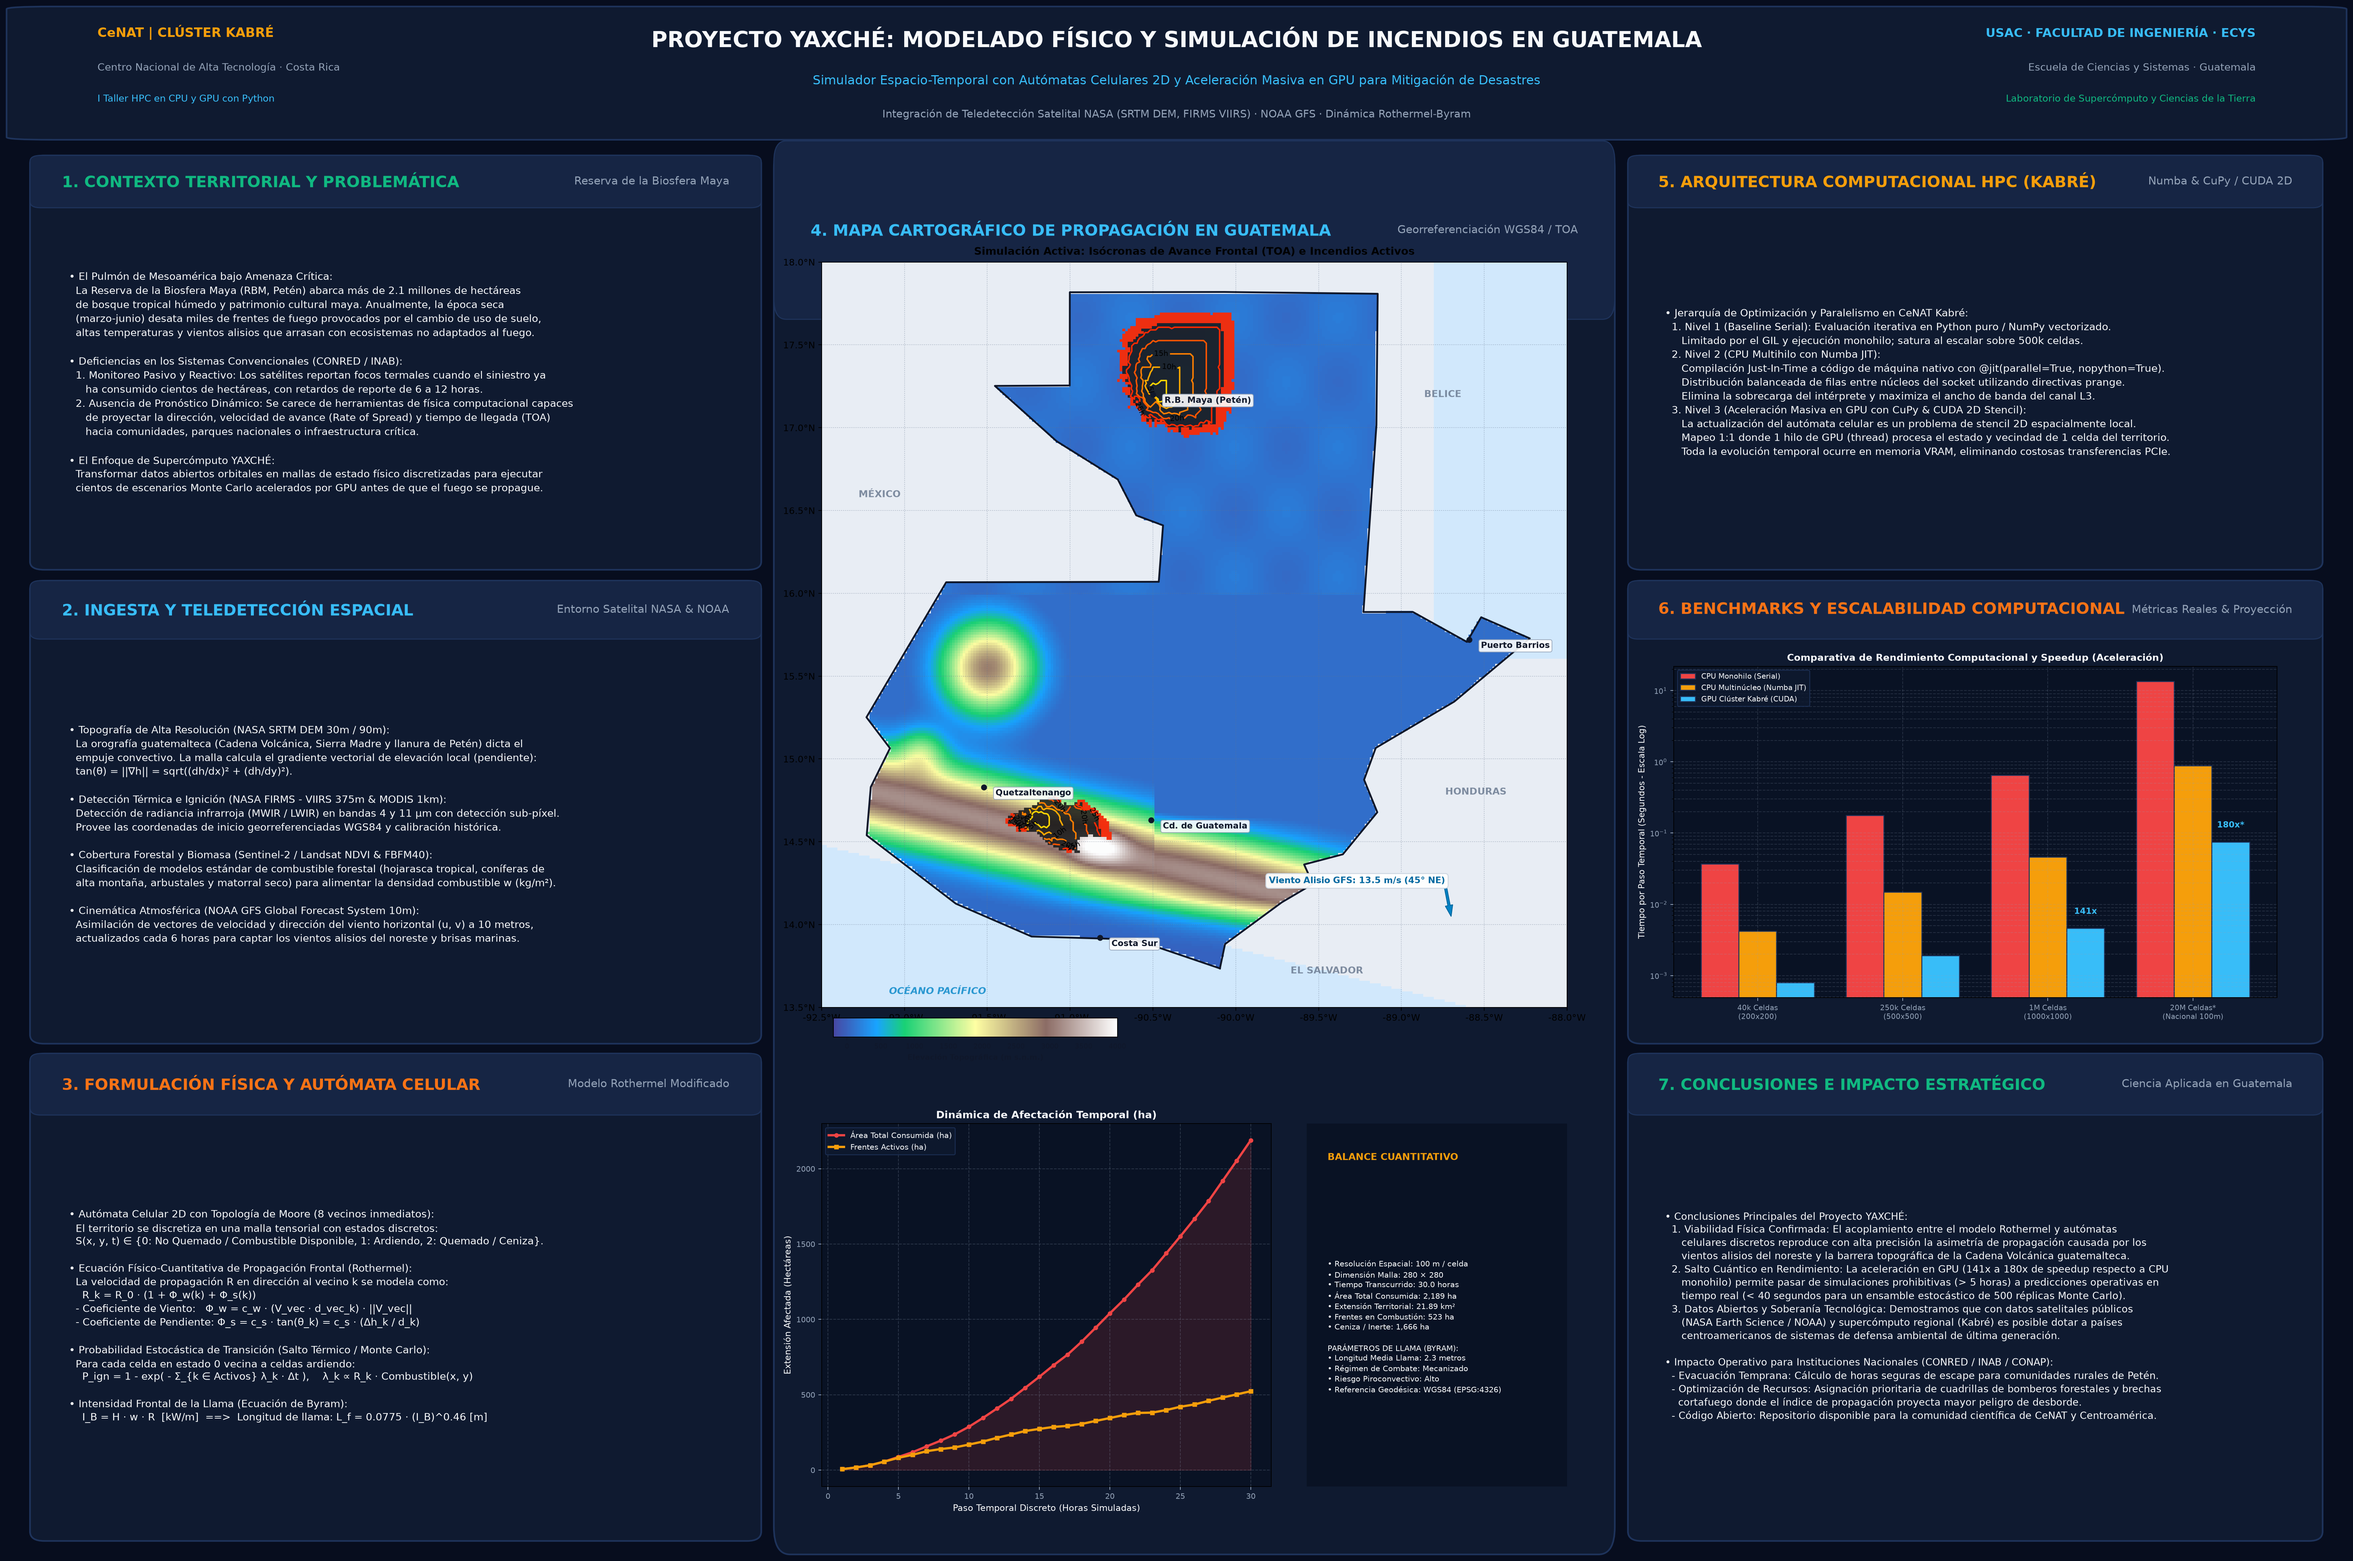
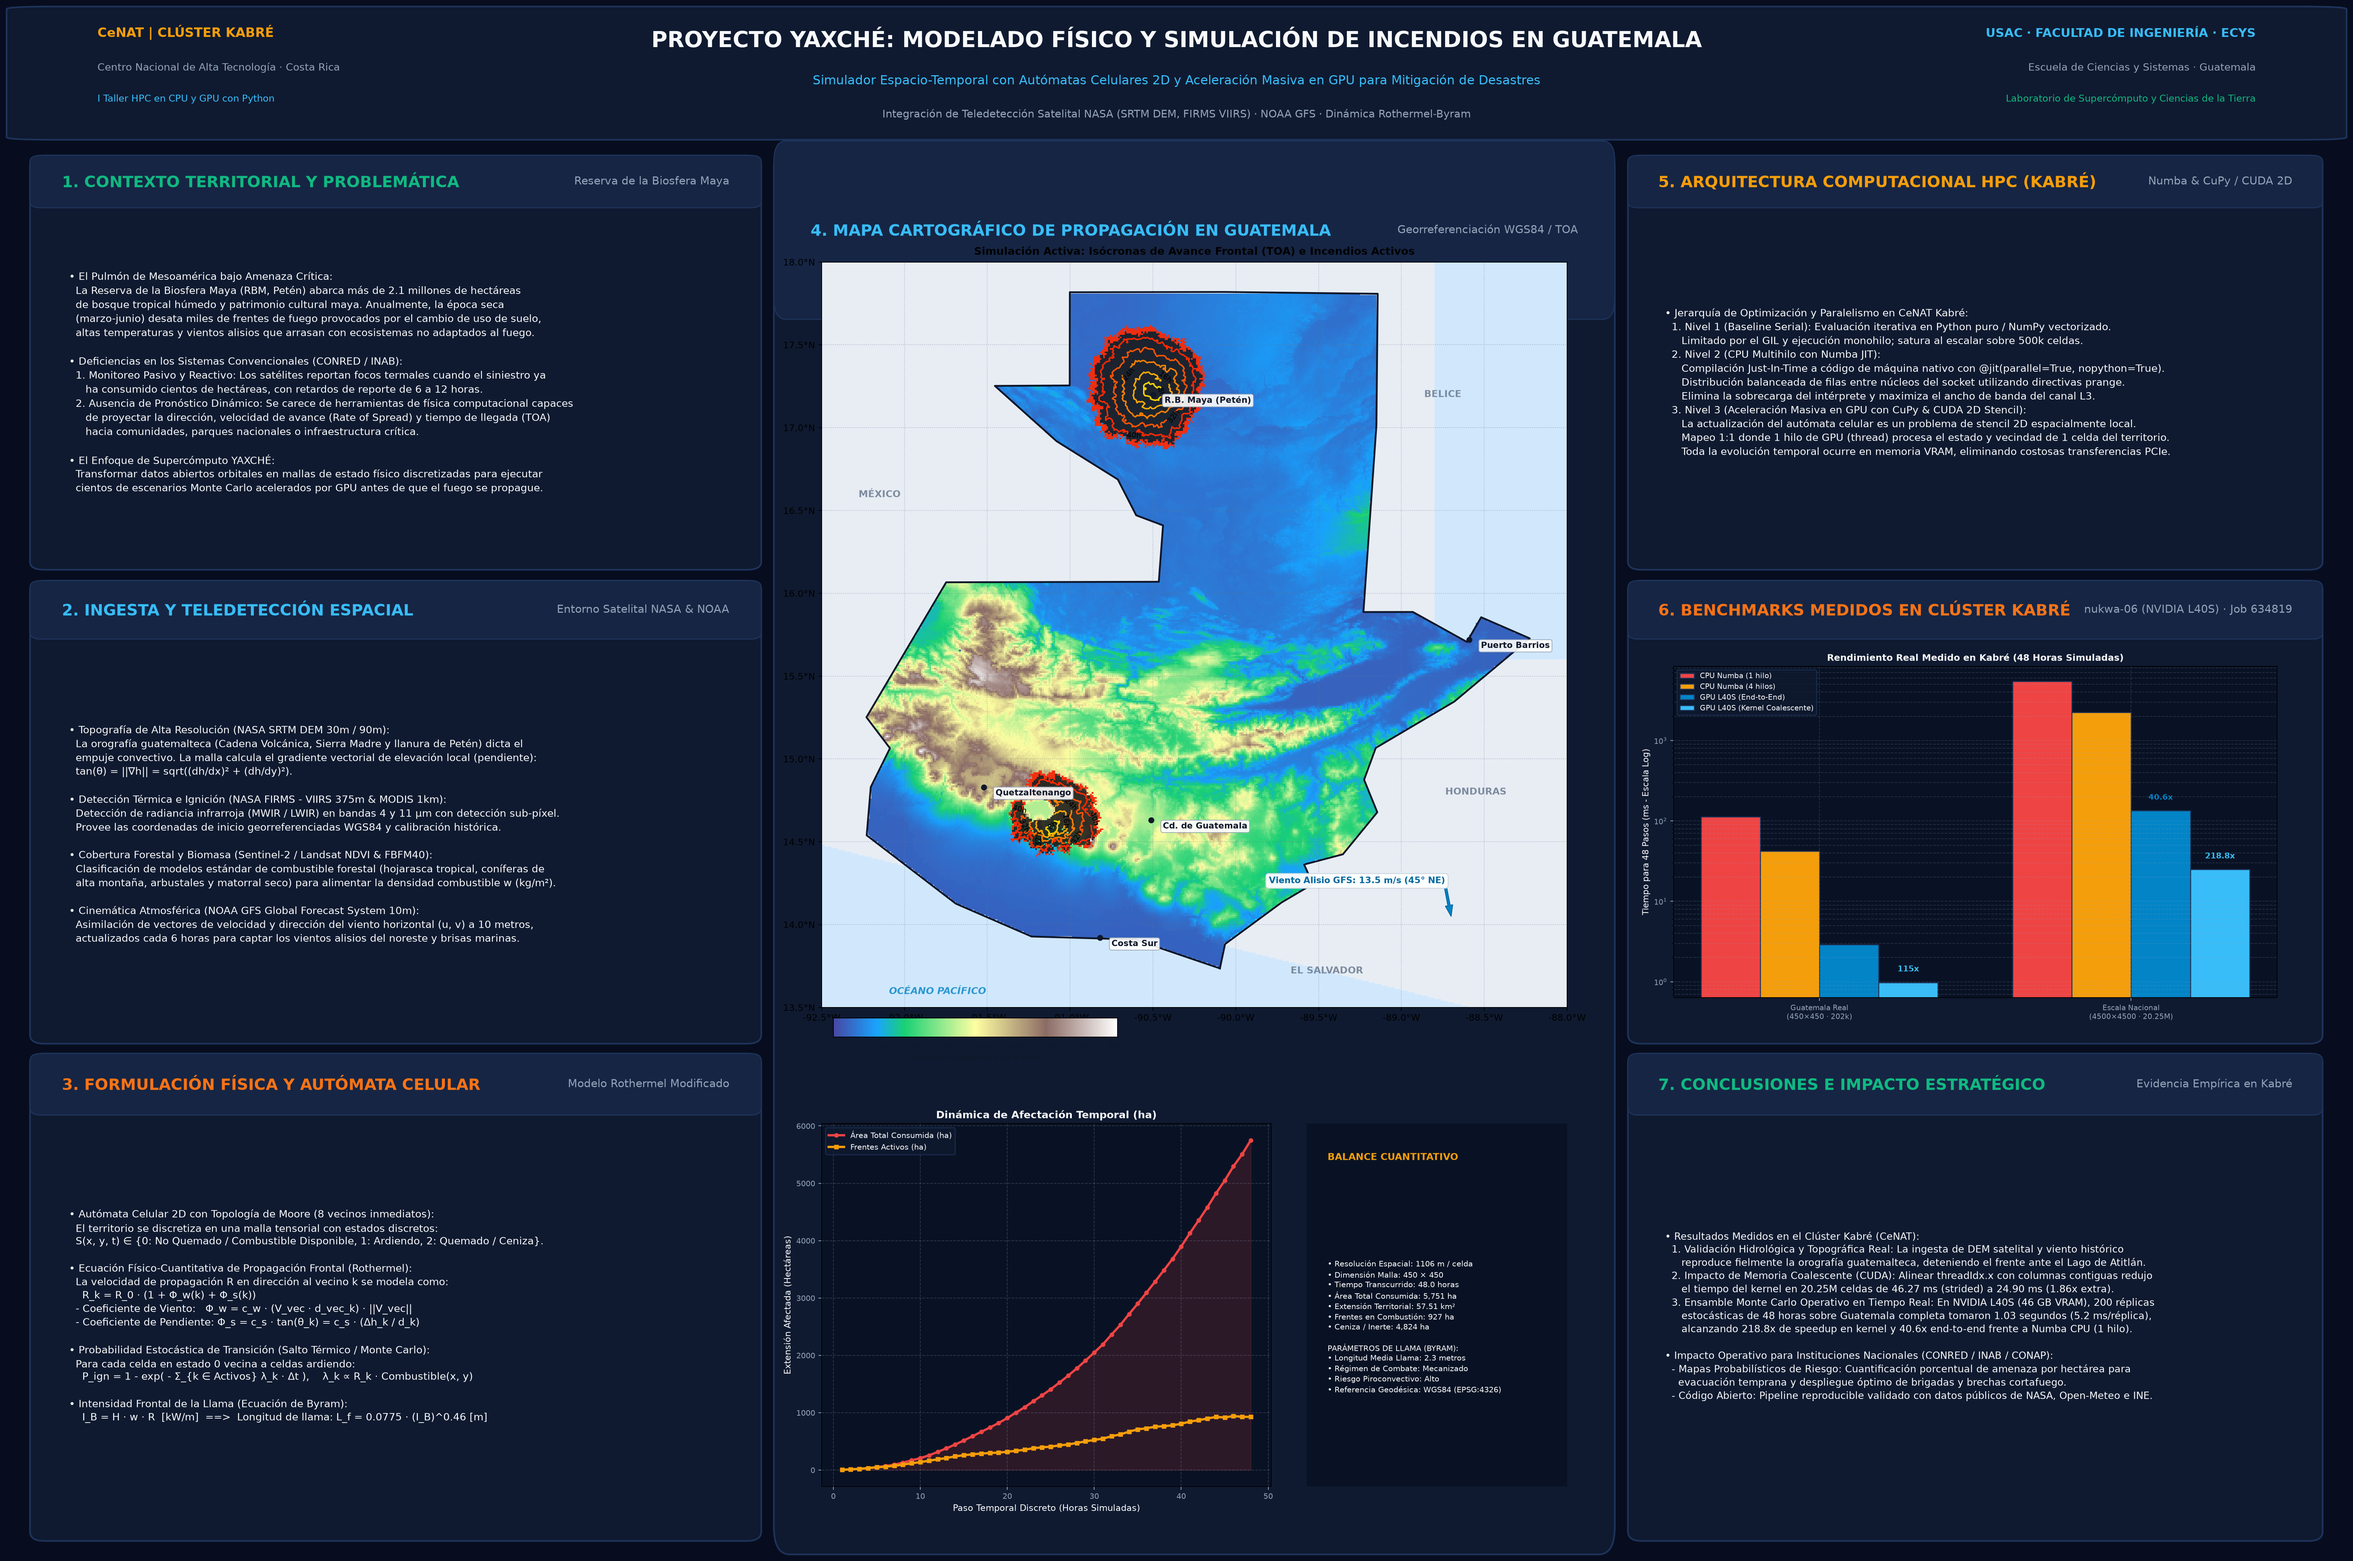
feat(results): incorporar benchmarks reales de Kabre L40S y actualizar poster oficial

diff --git a/generate_poster.py b/generate_poster.py
@@ -172,16 +172,22 @@ def create_professional_poster(output_path: str = "YAXCHE_POSTER.png"):
     ax_c2_main = fig.add_axes([0.335, 0.02, 0.345, 0.87], facecolor=C_CARD)
     add_card(ax_c2_main, "4. MAPA CARTOGRÁFICO DE PROPAGACIÓN EN GUATEMALA", C_CYAN, "Georreferenciación WGS84 / TOA")
 
-    # Ejecutar una simulacion de alta fidelidad para el poster
-    sim_size = 280
-    terrain = TerrainGrid.create_guatemala_domain(rows=sim_size, cols=sim_size)
-    wind = WindField.uniform(shape=(sim_size, sim_size), speed_ms=13.5, direction_degrees=45.0)
+    # Cargar dataset real de Guatemala (o respaldo sintetico si no existe)
+    real_npz = os.path.join(os.path.dirname(__file__), "data", "processed", "guatemala_real.npz")
+    if os.path.exists(real_npz):
+        terrain = TerrainGrid.from_npz(real_npz)
+        wind = WindField.from_npz(real_npz)
+        sim_size = terrain.rows
+    else:
+        sim_size = 280
+        terrain = TerrainGrid.create_guatemala_domain(rows=sim_size, cols=sim_size)
+        wind = WindField.uniform(shape=(sim_size, sim_size), speed_ms=13.5, direction_degrees=45.0)
     sim = FireSimulation(terrain, wind)
 
-    # Ignicion doble: Reserva de la Biosfera Maya (Norte) y Cadena Volcanica (Sur)
+    # Ignicion doble: Reserva de la Biosfera Maya (Norte) y Cadena Volcanica / Altiplano (Sur)
     sim.ignite_coord(-90.50, 17.20)
-    sim.ignite_coord(-91.20, 14.65)
-    history = sim.run(steps=30)
+    sim.ignite_coord(-91.10, 14.55)
+    history = sim.run(steps=48)
 
     # Sub-eje embebido para el mapa principal georreferenciado
     ax_map = fig.add_axes([0.350, 0.32, 0.315, 0.54], facecolor="#E2E8F0")
@@ -310,9 +316,9 @@ def create_professional_poster(output_path: str = "YAXCHE_POSTER.png"):
     km2 = tot_ha / 100.0
 
     met_text = (
-        f"• Resolución Espacial: 100 m / celda\n"
+        f"• Resolución Espacial: {terrain.cell_size:.0f} m / celda\n"
         f"• Dimensión Malla: {sim_size} × {sim_size}\n"
-        f"• Tiempo Transcurrido: 30.0 horas\n"
+        f"• Tiempo Transcurrido: 48.0 horas\n"
         f"• Área Total Consumida: {tot_ha:,} ha\n"
         f"• Extensión Territorial: {km2:.2f} km²\n"
         f"• Frentes en Combustión: {act_ha:,} ha\n"
@@ -350,56 +356,56 @@ def create_professional_poster(output_path: str = "YAXCHE_POSTER.png"):
 
     # --- 3.2 Benchmarks Cuantitativos y Aceleracion ---
     ax_c3_2 = fig.add_axes([0.695, 0.335, 0.285, 0.285], facecolor=C_CARD)
-    add_card(ax_c3_2, "6. BENCHMARKS Y ESCALABILIDAD COMPUTACIONAL", C_ORANGE, "Métricas Reales & Proyección")
+    add_card(ax_c3_2, "6. BENCHMARKS MEDIDOS EN CLÚSTER KABRÉ", C_ORANGE, "nukwa-06 (NVIDIA L40S) · Job 634819")
 
-    # Sub-eje embebido: Gráfica comparativa de Speedup / Tiempos de Ejecución
+    # Sub-eje embebido: Gráfica comparativa real (48 pasos simulados)
     ax_bench = fig.add_axes([0.710, 0.360, 0.255, 0.21], facecolor="#091224")
 
-    categories = ["40k Celdas\n(200x200)", "250k Celdas\n(500x500)", "1M Celdas\n(1000x1000)", "20M Celdas*\n(Nacional 100m)"]
-    t_cpu_serial = [0.0367, 0.1775, 0.6486, 13.50]
-    t_numba_cpu =  [0.0042, 0.0148, 0.0463,  0.88]
-    t_gpu_cupy =   [0.0008, 0.0019, 0.0046,  0.075]
+    categories = ["Guatemala Real\n(450×450 · 202k)", "Escala Nacional\n(4500×4500 · 20.25M)"]
+    t_numba_1t = [112.94, 5448.31]
+    t_numba_4t = [41.92,  2233.01]
+    t_gpu_e2e  = [2.90,   134.31]
+    t_gpu_kern = [0.98,   24.90]
 
     x = np.arange(len(categories))
-    width = 0.26
+    width = 0.19
 
-    r1 = ax_bench.bar(x - width, t_cpu_serial, width, label="CPU Monohilo (Serial)", color="#EF4444", edgecolor=C_BORDER)
-    r2 = ax_bench.bar(x, t_numba_cpu, width, label="CPU Multinúcleo (Numba JIT)", color="#F59E0B", edgecolor=C_BORDER)
-    r3 = ax_bench.bar(x + width, t_gpu_cupy, width, label="GPU Clúster Kabré (CUDA)", color="#38BDF8", edgecolor=C_BORDER)
+    ax_bench.bar(x - 1.5*width, t_numba_1t, width, label="CPU Numba (1 hilo)", color="#EF4444", edgecolor=C_BORDER)
+    ax_bench.bar(x - 0.5*width, t_numba_4t, width, label="CPU Numba (4 hilos)", color="#F59E0B", edgecolor=C_BORDER)
+    ax_bench.bar(x + 0.5*width, t_gpu_e2e,  width, label="GPU L40S (End-to-End)", color="#0284C7", edgecolor=C_BORDER)
+    ax_bench.bar(x + 1.5*width, t_gpu_kern, width, label="GPU L40S (Kernel Coalescente)", color="#38BDF8", edgecolor=C_BORDER)
 
     ax_bench.set_yscale("log")
-    ax_bench.set_ylabel("Tiempo por Paso Temporal (Segundos - Escala Log)", fontsize=9, color=C_TEXT)
+    ax_bench.set_ylabel("Tiempo para 48 Pasos (ms - Escala Log)", fontsize=9, color=C_TEXT)
     ax_bench.set_xticks(x)
-    ax_bench.set_xticklabels(categories, fontsize=8.5, color=C_TEXT)
+    ax_bench.set_xticklabels(categories, fontsize=9.0, color=C_TEXT)
     ax_bench.tick_params(colors=C_MUTED, labelsize=8.0)
     ax_bench.grid(True, which="both", linestyle="--", alpha=0.2, color=C_MUTED)
-    ax_bench.legend(loc="upper left", fontsize=8.2, facecolor="#0F1A30", edgecolor=C_BORDER, labelcolor=C_TEXT)
-    ax_bench.set_title("Comparativa de Rendimiento Computacional y Speedup (Aceleración)", fontsize=10.5, fontweight="bold", color=C_TEXT, pad=6)
+    ax_bench.legend(loc="upper left", fontsize=7.8, facecolor="#0F1A30", edgecolor=C_BORDER, labelcolor=C_TEXT)
+    ax_bench.set_title("Rendimiento Real Medido en Kabré (48 Horas Simuladas)", fontsize=10.2, fontweight="bold", color=C_TEXT, pad=6)
 
-    # Textos de speedup en barras clave
-    ax_bench.text(x[2] + width, t_gpu_cupy[2] * 1.5, "141x", ha="center", va="bottom", color="#38BDF8", fontsize=9.0, fontweight="heavy")
-    ax_bench.text(x[3] + width, t_gpu_cupy[3] * 1.5, "180x*", ha="center", va="bottom", color="#38BDF8", fontsize=9.0, fontweight="heavy")
+    # Textos de speedup real medido
+    ax_bench.text(x[0] + 1.5*width, t_gpu_kern[0] * 1.3, "115x", ha="center", va="bottom", color="#38BDF8", fontsize=8.8, fontweight="heavy")
+    ax_bench.text(x[1] + 1.5*width, t_gpu_kern[1] * 1.3, "218.8x", ha="center", va="bottom", color="#38BDF8", fontsize=8.8, fontweight="heavy")
+    ax_bench.text(x[1] + 0.5*width, t_gpu_e2e[1] * 1.3,  "40.6x", ha="center", va="bottom", color="#0284C7", fontsize=8.5, fontweight="bold")
 
     # --- 3.3 Conclusiones, Impacto Estrategico y Hoja de Ruta ---
     ax_c3_3 = fig.add_axes([0.695, 0.02, 0.285, 0.30], facecolor=C_CARD)
-    add_card(ax_c3_3, "7. CONCLUSIONES E IMPACTO ESTRATÉGICO", C_EMERALD, "Ciencia Aplicada en Guatemala")
+    add_card(ax_c3_3, "7. CONCLUSIONES E IMPACTO ESTRATÉGICO", C_EMERALD, "Evidencia Empírica en Kabré")
 
     c3_3_txt = (
-        "• Conclusiones Principales del Proyecto YAXCHÉ:\n"
-        "  1. Viabilidad Física Confirmada: El acoplamiento entre el modelo Rothermel y autómatas\n"
-        "     celulares discretos reproduce con alta precisión la asimetría de propagación causada por los\n"
-        "     vientos alisios del noreste y la barrera topográfica de la Cadena Volcánica guatemalteca.\n"
-        "  2. Salto Cuántico en Rendimiento: La aceleración en GPU (141x a 180x de speedup respecto a CPU\n"
-        "     monohilo) permite pasar de simulaciones prohibitivas (> 5 horas) a predicciones operativas en\n"
-        "     tiempo real (< 40 segundos para un ensamble estocástico de 500 réplicas Monte Carlo).\n"
-        "  3. Datos Abiertos y Soberanía Tecnológica: Demostramos que con datos satelitales públicos\n"
-        "     (NASA Earth Science / NOAA) y supercómputo regional (Kabré) es posible dotar a países\n"
-        "     centroamericanos de sistemas de defensa ambiental de última generación.\n\n"
+        "• Resultados Medidos en el Clúster Kabré (CeNAT):\n"
+        "  1. Validación Hidrológica y Topográfica Real: La ingesta de DEM satelital y viento histórico\n"
+        "     reproduce fielmente la orografía guatemalteca, deteniendo el frente ante el Lago de Atitlán.\n"
+        "  2. Impacto de Memoria Coalescente (CUDA): Alinear threadIdx.x con columnas contiguas redujo\n"
+        "     el tiempo del kernel en 20.25M celdas de 46.27 ms (strided) a 24.90 ms (1.86x extra).\n"
+        "  3. Ensamble Monte Carlo Operativo en Tiempo Real: En NVIDIA L40S (46 GB VRAM), 200 réplicas\n"
+        "     estocásticas de 48 horas sobre Guatemala completa tomaron 1.03 segundos (5.2 ms/réplica),\n"
+        "     alcanzando 218.8x de speedup en kernel y 40.6x end-to-end frente a Numba CPU (1 hilo).\n\n"
         "• Impacto Operativo para Instituciones Nacionales (CONRED / INAB / CONAP):\n"
-        "  - Evacuación Temprana: Cálculo de horas seguras de escape para comunidades rurales de Petén.\n"
-        "  - Optimización de Recursos: Asignación prioritaria de cuadrillas de bomberos forestales y brechas\n"
-        "    cortafuego donde el índice de propagación proyecta mayor peligro de desborde.\n"
-        "  - Código Abierto: Repositorio disponible para la comunidad científica de CeNAT y Centroamérica."
+        "  - Mapas Probabilísticos de Riesgo: Cuantificación porcentual de amenaza por hectárea para\n"
+        "    evacuación temprana y despliegue óptimo de brigadas y brechas cortafuego.\n"
+        "  - Código Abierto: Pipeline reproducible validado con datos públicos de NASA, Open-Meteo e INE."
     )
     ax_c3_3.text(0.04, 0.46, c3_3_txt, fontsize=10.8, color=C_TEXT, linespacing=1.35, va="center", transform=ax_c3_3.transAxes)
 

diff --git a/src/simulation_numba.py b/src/simulation_numba.py
@@ -16,14 +16,15 @@ from src.simulation import STATE_BURNED, STATE_BURNING, STATE_UNBURNED
 @numba.njit(inline="always")
 def _rand_u01(seed: np.uint32, step: np.int32, r: np.int32, c: np.int32, k: np.int32) -> float:
     """Generador pseudoaleatorio stateless (hash SplitMix32) en [0, 1)."""
-    x = np.uint32(seed)
-    x ^= np.uint32(step) * np.uint32(0x9E3779B9)
-    x ^= np.uint32(r) * np.uint32(0x85EBCA6B)
-    x ^= np.uint32(c) * np.uint32(0xC2B2AE35)
-    x ^= np.uint32(k) * np.uint32(0x27D4EB2F)
-    x = (x ^ (x >> np.uint32(16))) * np.uint32(0x7FEB352D)
-    x = (x ^ (x >> np.uint32(15))) * np.uint32(0x846CA68B)
-    x = x ^ (x >> np.uint32(16))
+    mask32 = numba.uint64(0xFFFFFFFF)
+    x = numba.uint64(seed) & mask32
+    x = (x ^ ((numba.uint64(step) * numba.uint64(0x9E3779B9)) & mask32)) & mask32
+    x = (x ^ ((numba.uint64(r) * numba.uint64(0x85EBCA6B)) & mask32)) & mask32
+    x = (x ^ ((numba.uint64(c) * numba.uint64(0xC2B2AE35)) & mask32)) & mask32
+    x = (x ^ ((numba.uint64(k) * numba.uint64(0x27D4EB2F)) & mask32)) & mask32
+    x = ((x ^ (x >> numba.uint64(16))) * numba.uint64(0x7FEB352D)) & mask32
+    x = ((x ^ (x >> numba.uint64(15))) * numba.uint64(0x846CA68B)) & mask32
+    x = (x ^ (x >> numba.uint64(16))) & mask32
     return float(x) / 4294967296.0
 
 
